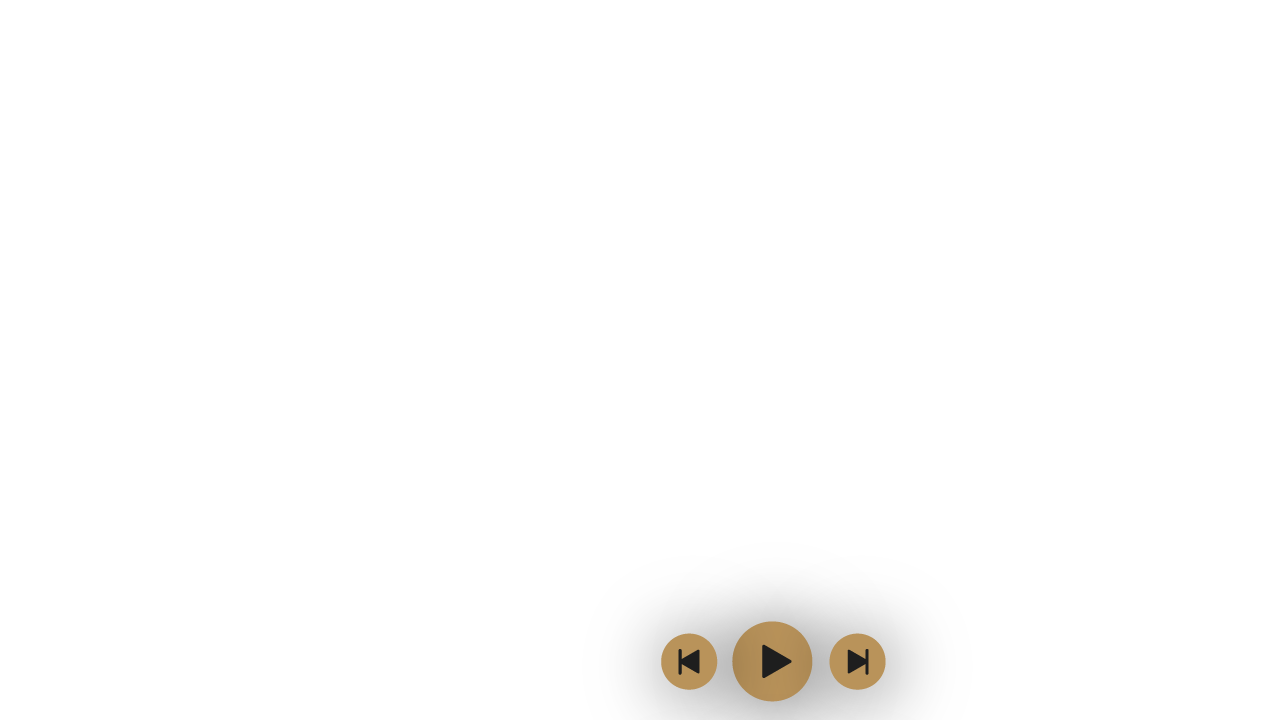
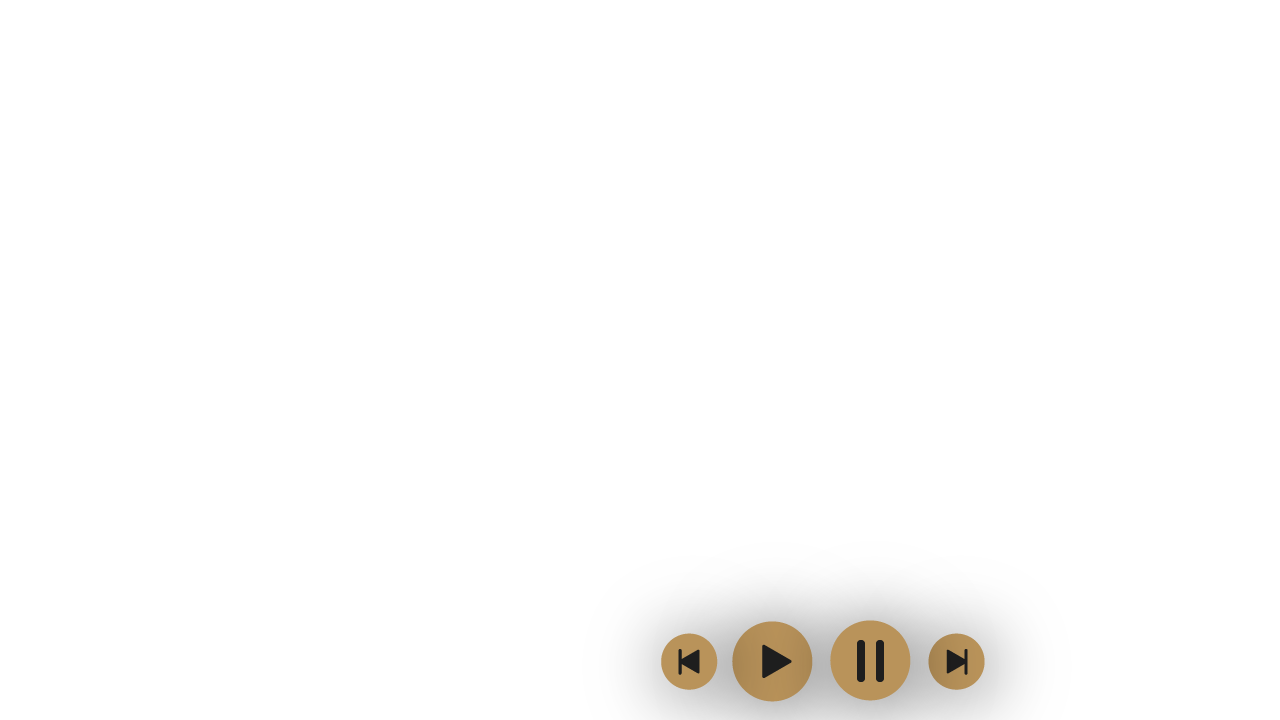
Reproduccion y cambio de canciones

Changed region(s): [[0.6562, 0.8556, 0.7812, 1.0]]

diff --git a/sketch.js b/sketch.js
@@ -1,13 +1,17 @@
 let pantalla;
 let pag0;
 let pag1;
+let boton;
 let fondo0;
+let canciones = [];
+let inicio = 0;
 
 function setup() {
   createCanvas(1280, 720);
   pantalla = 1;
   pag0 = new pagina0();
   pag1 = new pagina1();
+  boton = new botones();
 }
 
 function draw() {
@@ -23,18 +27,17 @@ function preload(){
   tommy = loadImage('recursos/tommy.png')
   rect = loadImage('recursos/rect.png')
   repro = loadImage('recursos/reproduciendo.png')
-  pause = loadImage('recursos/pausa.png')
   canc = loadImage('recursos/canciones.png')
 
   //Cargar fuentes
   RomanWood = loadFont('fuentes/Roman Wood Type JNL.ttf')
 
   //Cargar cancines
-  RRH = loadSound('canciones/Red Right Hand.mp3')
-  DB = loadSound('canciones/Danny Boy.mp3')
-  BBS = loadSound('canciones/Broken Boy Soldier.mp3')
-  LSM = loadSound('canciones/Long Snake Moak.mp3')
-  HBB = loadSound('canciones/The Hardest Button to Button.mp3')
+  canciones[0] = loadSound('canciones/Red Right Hand.mp3')
+  canciones[1] = loadSound('canciones/Danny Boy.mp3')
+  canciones[2] = loadSound('canciones/Broken Boy Soldier.mp3')
+  canciones[3] = loadSound('canciones/Long Snake Moak.mp3')
+  canciones[4] = loadSound('canciones/The Hardest Button to Button.mp3')
 }
 
 function pantallas() {
@@ -45,16 +48,28 @@ function pantallas() {
         break;
       case 1:
         pag1.mostrar();
+        
         break;
     }
 }
 
 function mouseClicked() {
   if(pantalla == 1) {
-    pag1.reproducir(298,166,RRH);
-    pag1.reproducir(298,255,HBB);
-    pag1.reproducir(298,339,BBS);
-    pag1.reproducir(298,429,DB);
-    pag1.reproducir(298,513,LSM);
+    if(inicio = 0) {
+    pag1.reproducir(298,166, canciones[0]);
+    } else if(inicio = 1) {
+    pag1.reproducir(298,255, canciones[1]);
+    } else if(inicio = 2) {
+    pag1.reproducir(298,339, canciones[2]);
+    } else if(inicio = 3) {
+    pag1.reproducir(298,429, canciones[3]);
+    } else if(inicio = 4) {
+    pag1.reproducir(298,513, canciones[4]);
+    }
+
+    console.log(inicio);
+
+    boton.pause();
+    boton.play();
     }
 }

diff --git a/botones.js b/botones.js
@@ -1,0 +1,23 @@
+class botones {
+    constructor(){
+        this.posX1 = 773;
+        this.posY1 = 660;
+        this.posX2 = 869;
+        this.posY2 = 659;
+    }
+
+    pause(){
+        if(dist(mouseX, mouseY, this.posX2,this.posY2) < 40){
+            if(canciones[inicio].isPlaying()) {
+                canciones[inicio].pause();
+            }
+        } 
+    }
+
+    play(){
+        if(dist(mouseX, mouseY, this.posX1,this.posY1) < 40){
+            if(canciones[inicio].isPaused())
+                canciones[inicio].play();
+        }
+    }
+}

diff --git a/index.html b/index.html
@@ -13,6 +13,7 @@
   </head>
 
   <body>
+    <script src="botones.js"></script>
     <script src="pagina1.js"></script>
     <script src="pagina0.js"></script>
     <script src="sketch.js"></script>
